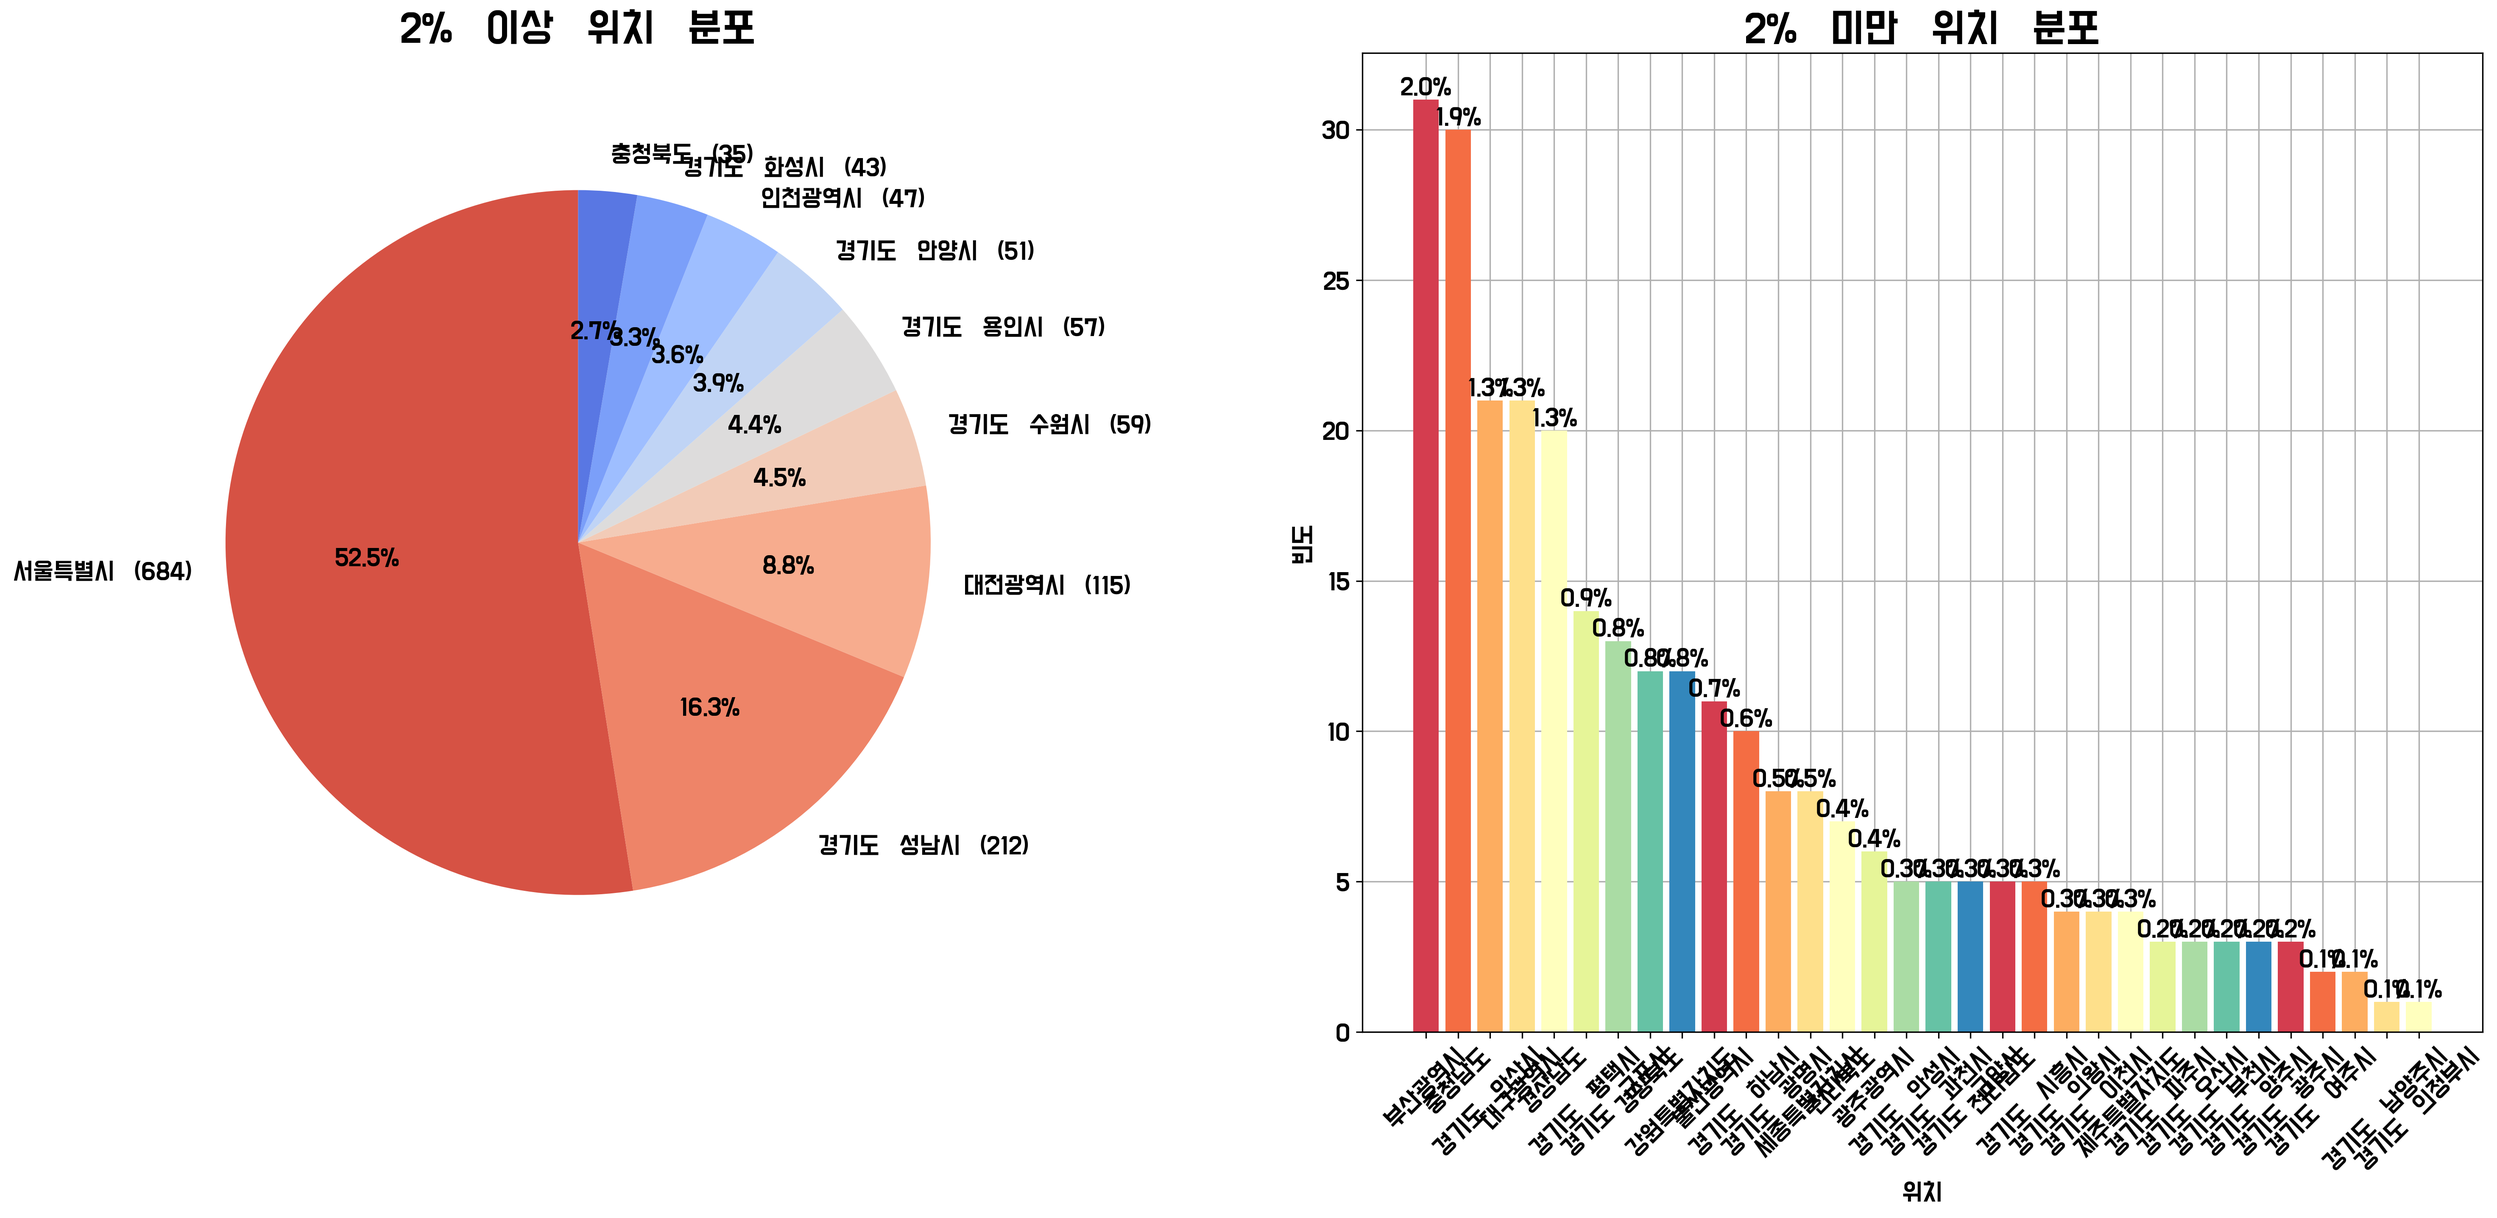
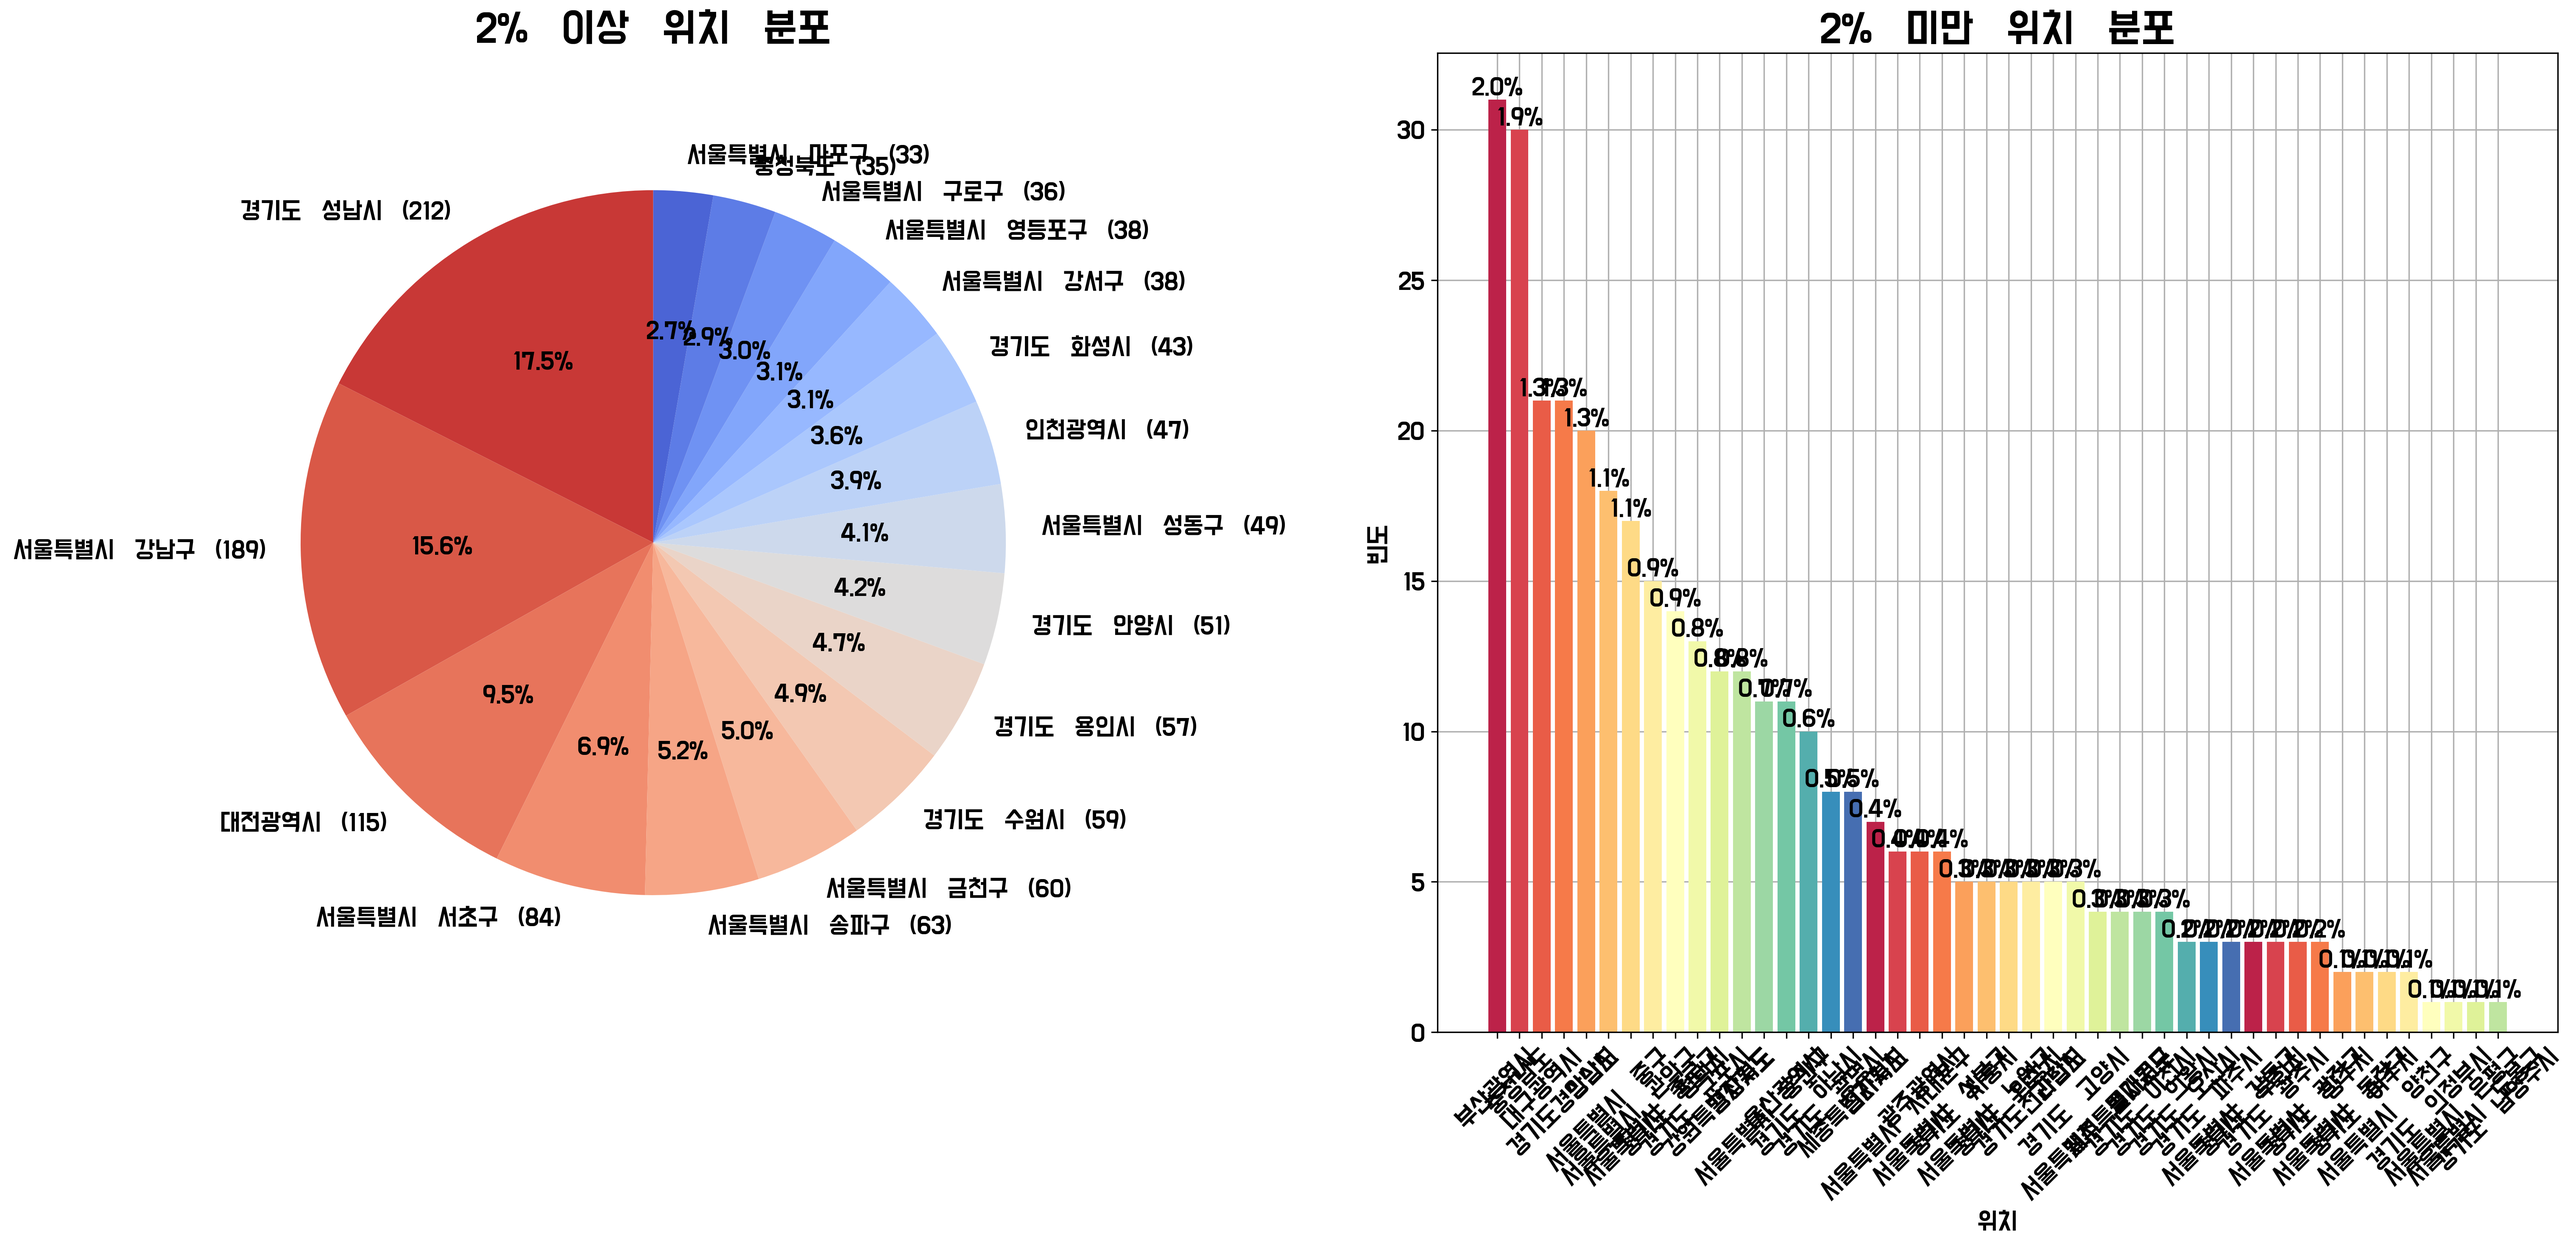
:art: Update: Seoul

Changed region(s): [[0.4999, 0.0, 0.9998, 0.991], [0.0, 0.0929, 0.4999, 0.7742], [0.1562, 0.0, 0.3437, 0.0619]]

diff --git a/Util/JMY/main.py b/Util/JMY/main.py
@@ -45,9 +45,11 @@ class JMY:
             ]
         self.data["위치"] = (
             self.data["주소"]
+            .str.replace("서울특별시 ", "서울특별시")
             .str.replace("경기도 ", "경기도")
             .str.split(" ")
             .str[0]
+            .str.replace("서울특별시", "서울특별시 ")
             .str.replace("경기도", "경기도 ")
         )
         plt.rcParams["font.size"] = 15
